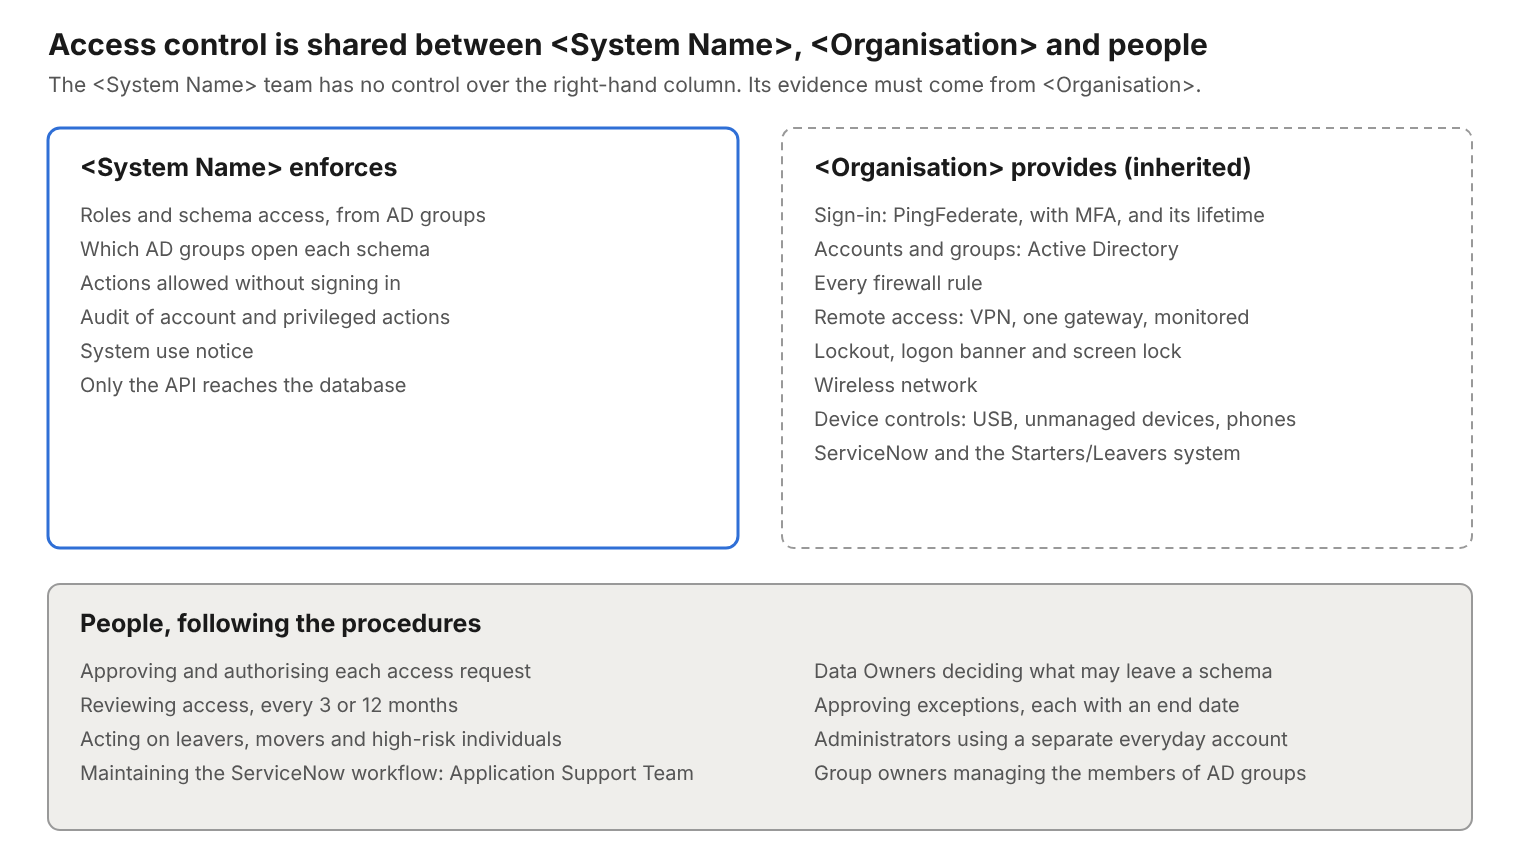
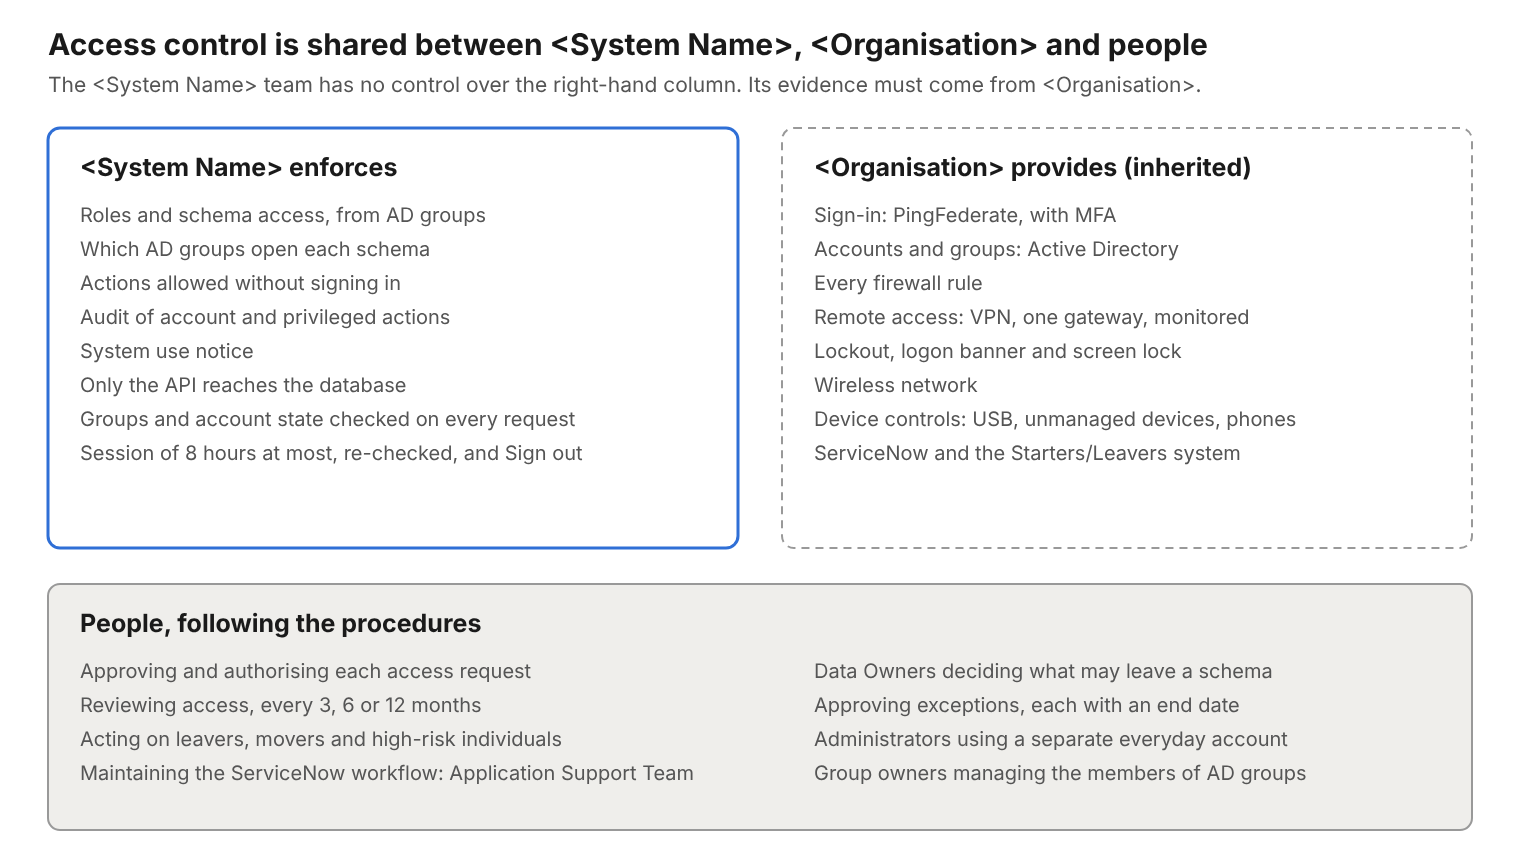
Figures: redraw the nine that showed the old session, admin and alert design
Claude-Session: https://claude.ai/code/session_011QHn65mZQfM76Yis9fdjTV

Changed region(s): [[0.0618, 0.4837, 0.3711, 0.5442], [0.7421, 0.2419, 0.8349, 0.2721], [0.2164, 0.8163, 0.3092, 0.8465]]

diff --git a/figures/src/iam-figure-1.html b/figures/src/iam-figure-1.html
@@ -30,15 +30,16 @@
 <rect x="544" y="400" width="432" height="250" rx="12" fill="#fff" stroke="#2e9e44" stroke-width="3"/>
 <text x="572" y="446" font-size="25" font-weight="700" fill="#1a1a1a">5 Groups read</text>
 <text x="572" y="484" font-size="20" fill="#555">the API reads the person's AD</text>
-<text x="572" y="514" font-size="20" fill="#555">groups over LDAPS (F7); they</text>
-<text x="572" y="544" font-size="20" fill="#555">give roles and schema access</text>
+<text x="572" y="514" font-size="20" fill="#555">groups and account state over</text>
+<text x="572" y="544" font-size="20" fill="#555">LDAPS (F7) on every request;</text>
+<text x="572" y="574" font-size="20" fill="#555">they give roles and schema access</text>
 <rect x="48" y="400" width="432" height="250" rx="12" fill="#fff" stroke="#999" stroke-width="2"/>
 <text x="76" y="446" font-size="25" font-weight="700" fill="#1a1a1a">6 How long it lasts</text>
-<text x="76" y="484" font-size="20" fill="#555">PingFederate's sign-in lifetime</text>
-<text x="76" y="514" font-size="20" fill="#555">(P-AC-10, P-02). The app has no</text>
-<text x="76" y="544" font-size="20" fill="#555">sessions; the device screen lock</text>
-<text x="76" y="574" font-size="20" fill="#555">hides an unattended screen</text>
-<text x="76" y="604" font-size="20" fill="#555">(P-AC-15, P-03)</text>
+<text x="76" y="484" font-size="20" fill="#555">8 hours from sign-in at most, never</text>
+<text x="76" y="514" font-size="20" fill="#555">longer than PingFederate's (P-02);</text>
+<text x="76" y="544" font-size="20" fill="#555">re-checked every 5 minutes; Sign</text>
+<text x="76" y="574" font-size="20" fill="#555">out ends it. The device screen lock</text>
+<text x="76" y="604" font-size="20" fill="#555">hides an unattended screen (P-03)</text>
 <line x1="1040" y1="525" x2="978" y2="525" stroke="#999" stroke-width="2.5" marker-end="url(#a)"/>
 <line x1="544" y1="525" x2="482" y2="525" stroke="#999" stroke-width="2.5" marker-end="url(#a)"/>
 <rect x="48" y="700" width="1424" height="104" rx="12" fill="#efeeeb" stroke="#999" stroke-width="2"/>

diff --git a/figures/src/acm-figure-3.html b/figures/src/acm-figure-3.html
@@ -11,9 +11,11 @@
 <text x="80" y="324" font-size="20" fill="#555">Audit of account and privileged actions</text>
 <text x="80" y="358" font-size="20" fill="#555">System use notice</text>
 <text x="80" y="392" font-size="20" fill="#555">Only the API reaches the database</text>
+<text x="80" y="426" font-size="20" fill="#555">Groups and account state checked on every request</text>
+<text x="80" y="460" font-size="20" fill="#555">Session of 8 hours at most, re-checked, and Sign out</text>
 <rect x="782" y="128" width="690" height="420" rx="12" fill="#fff" stroke="#999" stroke-width="2" stroke-dasharray="8 6"/>
 <text x="814" y="176" font-size="25" font-weight="700" fill="#1a1a1a">&lt;Organisation&gt; provides (inherited)</text>
-<text x="814" y="222" font-size="20" fill="#555">Sign-in: PingFederate, with MFA, and its lifetime</text>
+<text x="814" y="222" font-size="20" fill="#555">Sign-in: PingFederate, with MFA</text>
 <text x="814" y="256" font-size="20" fill="#555">Accounts and groups: Active Directory</text>
 <text x="814" y="290" font-size="20" fill="#555">Every firewall rule</text>
 <text x="814" y="324" font-size="20" fill="#555">Remote access: VPN, one gateway, monitored</text>
@@ -24,7 +26,7 @@
 <rect x="48" y="584" width="1424" height="246" rx="12" fill="#efeeeb" stroke="#999" stroke-width="2"/>
 <text x="80" y="632" font-size="25" font-weight="700" fill="#1a1a1a">People, following the procedures</text>
 <text x="80" y="678" font-size="20" fill="#555">Approving and authorising each access request</text>
-<text x="80" y="712" font-size="20" fill="#555">Reviewing access, every 3 or 12 months</text>
+<text x="80" y="712" font-size="20" fill="#555">Reviewing access, every 3, 6 or 12 months</text>
 <text x="80" y="746" font-size="20" fill="#555">Acting on leavers, movers and high-risk individuals</text>
 <text x="80" y="780" font-size="20" fill="#555">Maintaining the ServiceNow workflow: Application Support Team</text>
 <text x="814" y="678" font-size="20" fill="#555">Data Owners deciding what may leave a schema</text>

diff --git a/figures/src/aum-figure-1.html b/figures/src/aum-figure-1.html
@@ -18,8 +18,8 @@
 <line x1="980" y1="239" x2="1050" y2="239" stroke="#999" stroke-width="2.5" marker-end="url(#a)"/>
 <rect x="48" y="328" width="420" height="134" rx="12" fill="#fff" stroke="#999" stroke-width="2"/>
 <text x="76" y="374" font-size="25" font-weight="700" fill="#1a1a1a">SQL Server</text>
-<text x="76" y="410" font-size="20" fill="#555">logins, permission and</text>
-<text x="76" y="440" font-size="20" fill="#555">database structure changes</text>
+<text x="76" y="410" font-size="20" fill="#555">logins, permissions, structure;</text>
+<text x="76" y="440" font-size="20" fill="#555">item reads by non-API logins</text>
 <rect x="560" y="328" width="420" height="134" rx="12" fill="#fff" stroke="#999" stroke-width="2"/>
 <text x="588" y="374" font-size="25" font-weight="700" fill="#1a1a1a">SQL Server Audit files</text>
 <text x="588" y="410" font-size="20" fill="#555">forwarded to central logging</text>
@@ -53,7 +53,10 @@
 <text x="1080" y="410" font-size="20" fill="#555">every week, compares these</text>
 <text x="1080" y="440" font-size="20" fill="#555">logs with the audit log by</text>
 <text x="1080" y="470" font-size="20" fill="#555">hand, lining them up by</text>
-<text x="1080" y="500" font-size="20" fill="#555">UTC time and username</text>
+<text x="1080" y="500" font-size="20" fill="#555">UTC time and username. They</text>
+<text x="1080" y="530" font-size="20" fill="#555">read the server logs in</text>
+<text x="1080" y="560" font-size="20" fill="#555">central logging, with no</text>
+<text x="1080" y="590" font-size="20" fill="#555">sign-in to the servers</text>
 <rect x="48" y="818" width="1424" height="80" rx="12" fill="#efeeeb" stroke="#999" stroke-width="2"/>
 <text x="76" y="866" font-size="20" fill="#555">All times are in UTC. Records are kept 12 months online, then 12 months in an offline archive. Nobody can change one.</text>
 </svg></body></html>

diff --git a/figures/src/acm-figure-1.html b/figures/src/acm-figure-1.html
@@ -9,12 +9,12 @@
 <rect x="48" y="172" width="640" height="150" rx="12" fill="#fff" stroke="#999" stroke-width="2"/>
 <text x="76" y="218" font-size="25" font-weight="700" fill="#1a1a1a">1 Signed in</text>
 <text x="76" y="254" font-size="20" fill="#555">PingFederate authenticates the user with MFA.</text>
-<text x="76" y="284" font-size="20" fill="#555">The app's authentication cookie must be valid.</text>
+<text x="76" y="284" font-size="20" fill="#555">The app's cookie must be valid: 8 hours at most.</text>
 
 <rect x="832" y="172" width="640" height="150" rx="12" fill="#fff" stroke="#999" stroke-width="2"/>
 <text x="860" y="218" font-size="25" font-weight="700" fill="#1a1a1a">2 Active Directory groups</text>
-<text x="860" y="254" font-size="20" fill="#555">the API reads the user's groups from</text>
-<text x="860" y="284" font-size="20" fill="#555">Active Directory over LDAPS (F7)</text>
+<text x="860" y="254" font-size="20" fill="#555">the API reads the user's groups and account</text>
+<text x="860" y="284" font-size="20" fill="#555">state over LDAPS (F7), on every request</text>
 <line x1="688" y1="247" x2="830" y2="247" stroke="#999" stroke-width="2.5" marker-end="url(#a)"/>
 
 <polyline points="1152,322 1152,362 368,362 368,428" fill="none" stroke="#999" stroke-width="2.5" marker-end="url(#a)"/>

diff --git a/figures/src/acm-figure-4.html b/figures/src/acm-figure-4.html
@@ -38,8 +38,8 @@
 <rect x="584" y="480" width="888" height="170" rx="12" fill="#fff" stroke="#999" stroke-width="2"/>
 <text x="612" y="526" font-size="25" font-weight="700" fill="#1a1a1a">Group owners</text>
 <text x="612" y="564" font-size="20" fill="#555">remove the memberships within 5 working days. For a high-risk</text>
-<text x="612" y="594" font-size="20" fill="#555">individual, &lt;Organisation&gt; disables the AD account and ends</text>
-<text x="612" y="624" font-size="20" fill="#555">the PingFederate sign-in within 1 hour</text>
+<text x="612" y="594" font-size="20" fill="#555">individual, &lt;Organisation&gt; disables the AD account within 1 hour,</text>
+<text x="612" y="624" font-size="20" fill="#555">and the system refuses them within 5 minutes</text>
 <line x1="520" y1="565" x2="582" y2="565" stroke="#999" stroke-width="2.5" marker-end="url(#a)"/>
 <rect x="48" y="690" width="1424" height="72" rx="12" fill="#efeeeb" stroke="#999" stroke-width="2"/>
 <text x="76" y="734" font-size="20" fill="#555">The closed ServiceNow request is the record of the decision, kept for 3 years.</text>

diff --git a/figures/src/ssp-figure-2.html b/figures/src/ssp-figure-2.html
@@ -9,7 +9,7 @@
 <text x="76" y="275" font-size="20" fill="#555">pages run on the</text><text x="76" y="301" font-size="20" fill="#555">server (Blazor)</text>
 <rect x="48" y="410" width="290" height="130" rx="12" fill="#fff" stroke="#999" stroke-width="2"/>
 <text x="76" y="452" font-size="25" font-weight="700">Admin's browser</text>
-<text x="76" y="485" font-size="20" fill="#555">the five role groups,</text><text x="76" y="511" font-size="20" fill="#555">over the admin route</text>
+<text x="76" y="485" font-size="20" fill="#555">admins, auditors, security</text><text x="76" y="511" font-size="20" fill="#555">officer; admin route only</text>
 <rect x="48" y="620" width="290" height="130" rx="12" fill="#fff" stroke="#999" stroke-width="2" stroke-dasharray="8 6"/>
 <text x="76" y="662" font-size="25" font-weight="700">PingFederate</text>
 <text x="76" y="695" font-size="20" fill="#555">sign-in with MFA</text><text x="76" y="721" font-size="20" fill="#555">(inherited)</text>

diff --git a/figures/src/sd-figure-1.html b/figures/src/sd-figure-1.html
@@ -13,7 +13,7 @@
 <line x1="910" y1="204" x2="998" y2="204" stroke="#999" stroke-width="2.5" marker-end="url(#a)"/><text x="954" y="192" font-size="19" fill="#555" text-anchor="middle">F6</text>
 <rect x="80" y="160" width="330" height="88" rx="12" fill="#fff" stroke="#999" stroke-width="2" stroke-dasharray="8 6"/>
 <text x="245" y="198" font-size="22" font-weight="700" text-anchor="middle">ServiceNow</text>
-<text x="245" y="228" font-size="18" fill="#555" text-anchor="middle">access approval by Data Owner</text>
+<text x="245" y="228" font-size="18" fill="#555" text-anchor="middle">access approval by group owner</text>
 <rect x="96" y="300" width="1000" height="740" rx="16" fill="none" stroke="#2f6fd6" stroke-width="3" stroke-dasharray="14 9"/>
 <text x="596" y="340" font-size="24" font-weight="700" text-anchor="middle">&lt;System Name&gt; system boundary</text>
 <rect x="130" y="370" width="932" height="220" rx="12" fill="#efeeeb" stroke="#999" stroke-width="2"/>

diff --git a/figures/src/ssp-figure-6.html b/figures/src/ssp-figure-6.html
@@ -51,6 +51,6 @@
 <text x="954" y="552" font-size="20" fill="#555">and administration</text>
 <text x="954" y="580" font-size="20" fill="#555">of both servers</text>
 <text x="954" y="608" font-size="20" fill="#555">(F11)</text>
-<text x="48" y="708" font-size="20" fill="#555">Administration ports are blocked from outside &lt;Organisation&gt;'s network. Server and database access is</text>
-<text x="48" y="738" font-size="20" fill="#555">for an approved change or maintenance only (&lt;Security Operating Procedures&gt;).</text>
+<text x="48" y="708" font-size="20" fill="#555">From outside the office, administration goes through the VPN, then the admin route, with MFA at both,</text>
+<text x="48" y="738" font-size="20" fill="#555">for approved changes, maintenance or incidents only, and is logged (P-54; &lt;Security Operating Procedures&gt;, B23).</text>
 </svg></body></html>

diff --git a/figures/src/sim-figure-1.html b/figures/src/sim-figure-1.html
@@ -26,7 +26,7 @@
 <text x="1068" y="578" font-size="20" fill="#555">to central logging</text>
 <rect x="544" y="432" width="432" height="192" rx="12" fill="#fff" stroke="#999" stroke-width="2"/>
 <text x="572" y="480" font-size="25" font-weight="700" fill="#1a1a1a">5 Alerted and reviewed</text>
-<text x="572" y="518" font-size="20" fill="#555">eight detection use cases;</text>
+<text x="572" y="518" font-size="20" fill="#555">nine detection use cases;</text>
 <text x="572" y="548" font-size="20" fill="#555">the security officer reviews</text>
 <text x="572" y="578" font-size="20" fill="#555">every week</text>
 <rect x="48" y="432" width="432" height="192" rx="12" fill="#fff" stroke="#2e9e44" stroke-width="3"/>
